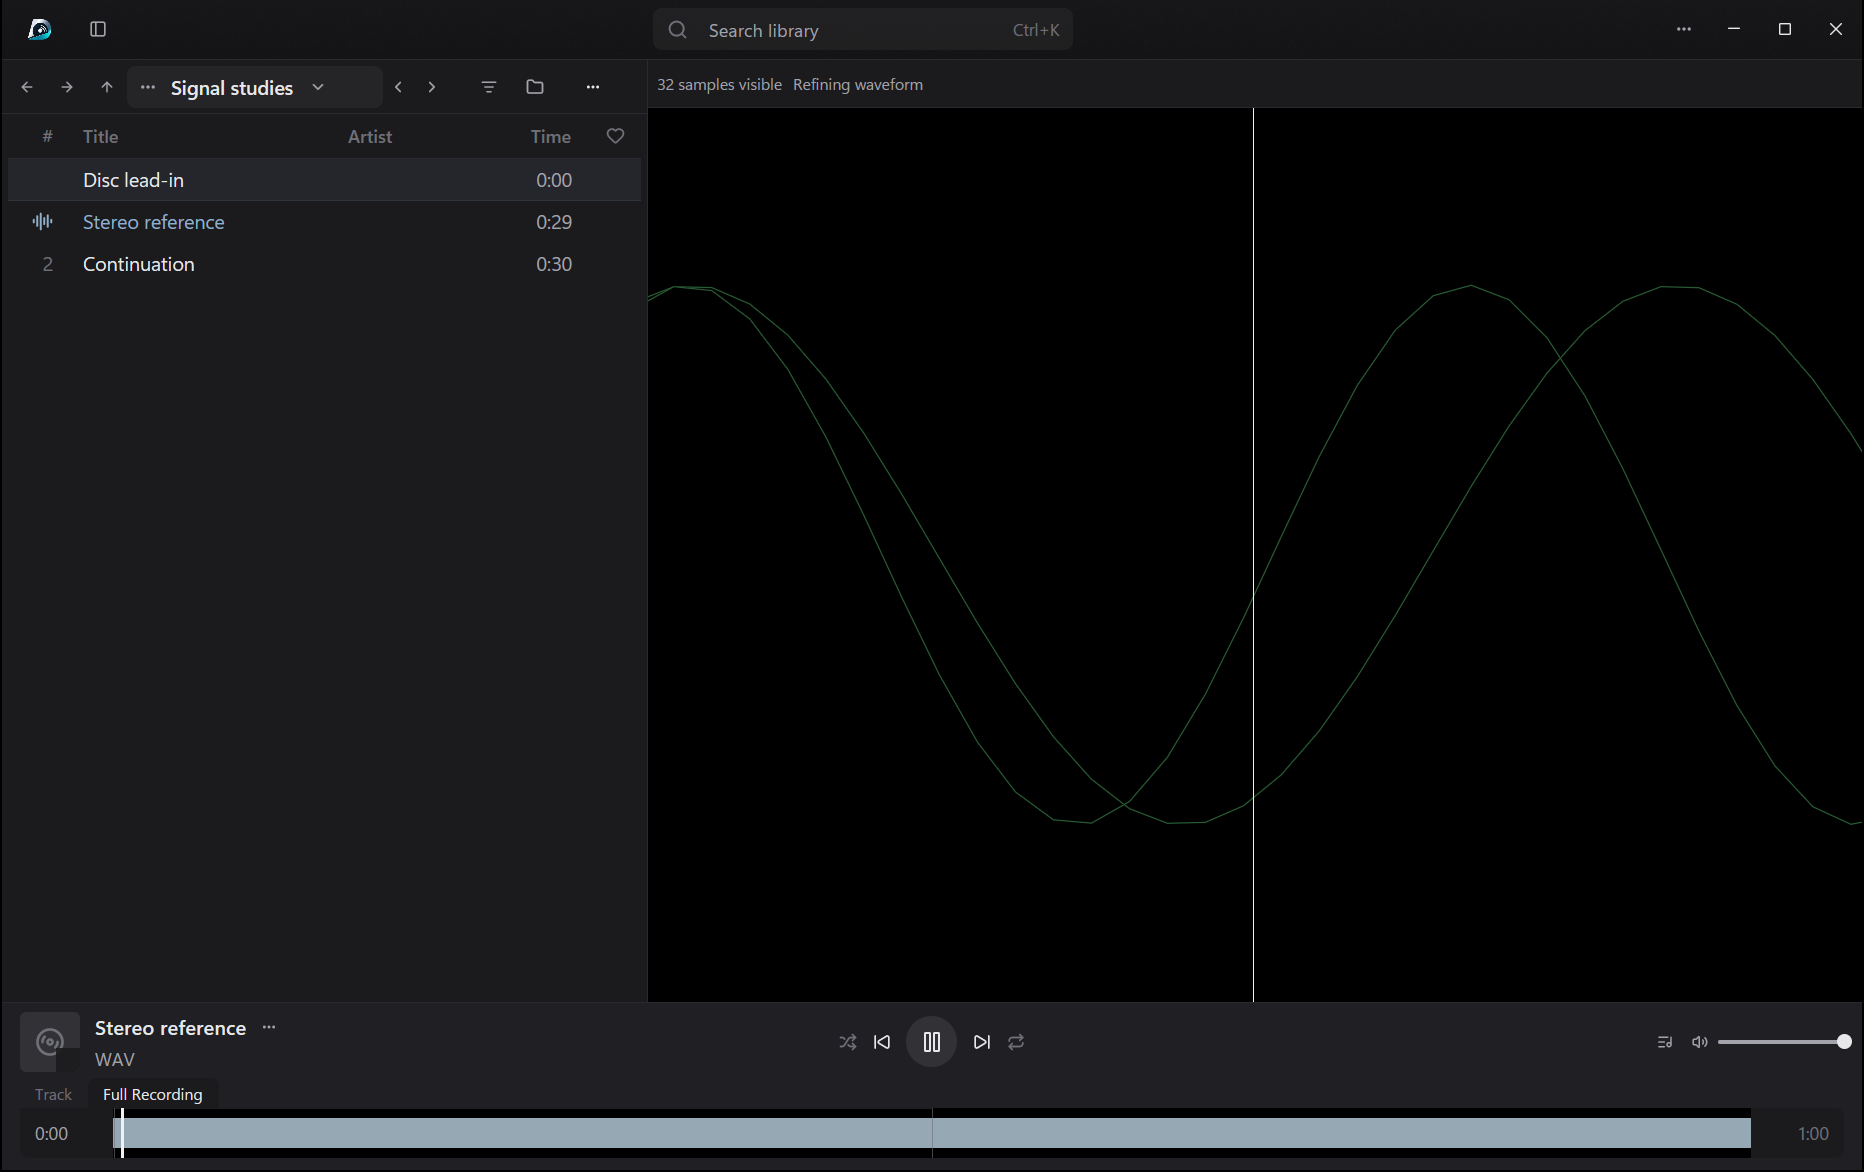
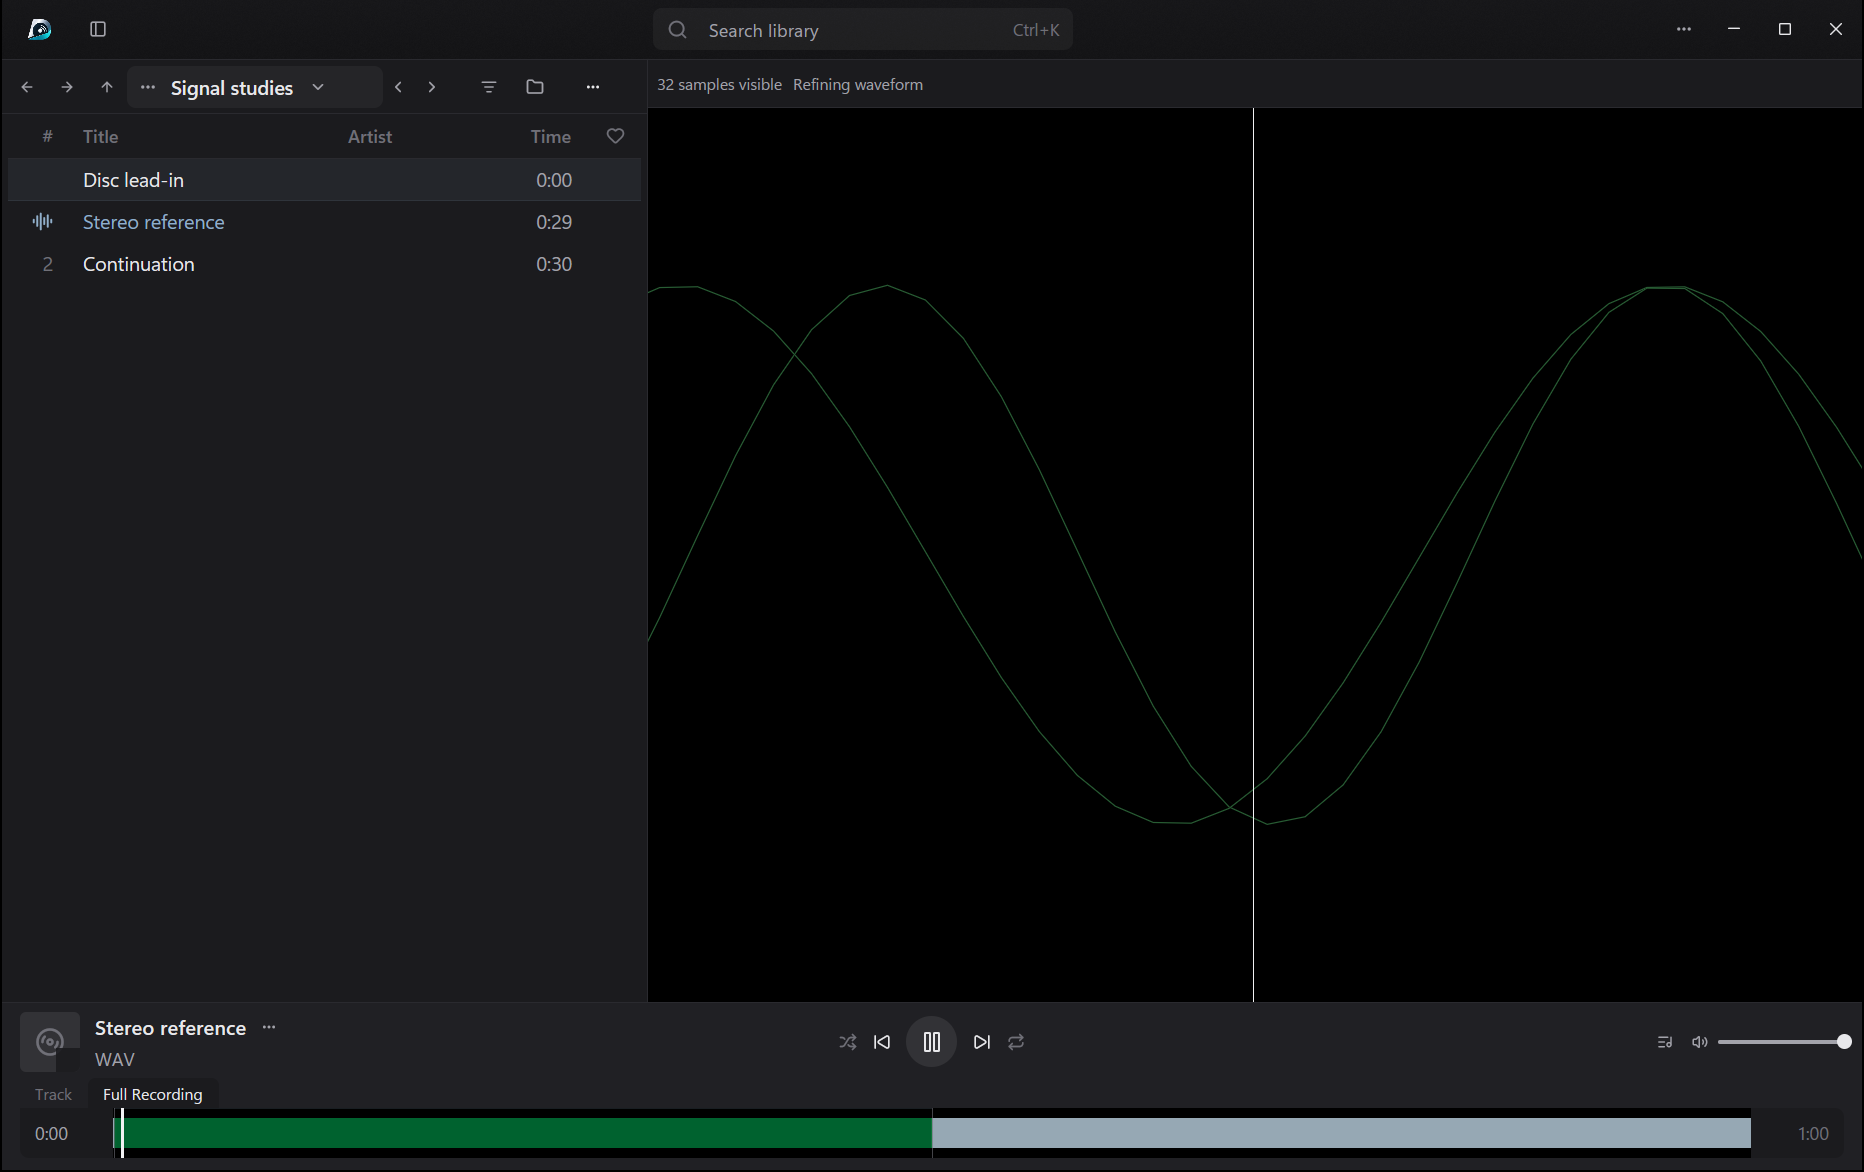
test(waveform): qualify inline inspection and native ruler alignment

diff --git a/tools/qualifyWaveformInspection.py b/tools/qualifyWaveformInspection.py
@@ -9,6 +9,7 @@ import struct
 import json
 import math
 import os
+import shutil
 from pathlib import Path
 import subprocess
 import sys
@@ -16,33 +17,42 @@ import time
 import wave
 from array import array
 
+from PIL import Image, ImageChops
+
 from privateDesktop import run
 from qualifySpectrum import find_window, screenshot
 from qualifyWaveform import settings
 
 
-def measure(exe, folder):
+def measure(exe, folder, band, control_wav):
     folder.mkdir(parents=True, exist_ok=False)
     recordings = folder / "Signal studies"
     recordings.mkdir()
     source = recordings / "Stereo inspection.wav"
-    rate = 48000
-    second = array("h")
-    for i in range(rate):
-        for frequency, phase in [(1847, 0), (2333, 0.4)]:
-            second.append(round(21500 * math.sin(math.tau * i * frequency / rate + phase)))
-    with wave.open(str(source), "wb") as out:
-        out.setparams((2, 2, rate, 0, "NONE", ""))
-        for _ in range(60):
-            out.writeframesraw(second.tobytes())
+    if control_wav:
+        shutil.copyfile(control_wav, source)
+    else:
+        rate = 48000
+        second = array("h")
+        frequencies = {"mid": (1847, 2333), "bass": (83, 127), "high": (7393, 8681)}[band]
+        for i in range(rate):
+            for frequency, phase in zip(frequencies, (0, 0.4)):
+                second.append(round(21500 * math.sin(math.tau * i * frequency / rate + phase)))
+        with wave.open(str(source), "wb") as out:
+            out.setparams((2, 2, rate, 0, "NONE", ""))
+            for _ in range(60):
+                out.writeframesraw(second.tobytes())
     cue = recordings / "Stereo inspection.cue"
+    # At 3.2 seconds the frozen control contains a 6.3 kHz mono tone.
+    # Starting the CUE chapter here exercises coincident channel outlines.
+    index, next_index = ("00:03:08", "00:18:00") if control_wav else ("00:00:03", "00:30:00")
     cue.write_text('FILE "Stereo inspection.wav" WAVE\n'
-                   'TRACK 01 AUDIO\nTITLE "Stereo reference"\nINDEX 01 00:00:03\n'
-                   'TRACK 02 AUDIO\nTITLE "Continuation"\nINDEX 01 00:30:00\n', encoding="ascii")
+                   f'TRACK 01 AUDIO\nTITLE "Stereo reference"\nINDEX 01 {index}\n'
+                   f'TRACK 02 AUDIO\nTITLE "Continuation"\nINDEX 01 {next_index}\n', encoding="ascii")
     profile = settings(cue, 1)
     def restore(node):
         if node["panel_name"] == "disqro.waveform":
-            node["info"]["panel"]["state"] = {"showSamplePoints": True}
+            node["info"]["panel"]["state"] = {"showSamplePoints": True, "showSampleRuler": True}
         for child in node["children"]:
             restore(child)
     restore(profile["layout"]["center"])
@@ -50,7 +60,9 @@ def measure(exe, folder):
     stages = folder / "stages.csv"
     env = dict(os.environ, DISQRO_PROFILE_DIR=str(folder), DISQRO_INSPECTION_JOURNEY=str(folder),
                DISQRO_PRESENTATION_STAGES=str(stages))
-    captures = ("zoom-editor", "sample-points", "sample-inspector", "playback")
+    if control_wav:
+        env["DISQRO_INSPECTION_MIN_FRAME"] = str(round(3.2 * 44100))
+    captures = ("zoom-editor", "sample-points", "sample-ruler", "sample-inspector", "cue-times", "playback", "sample-narrow")
     log = folder / "journey.log"
     with log.open("w", encoding="utf-8") as stream:
         player = subprocess.Popen([exe, "--qualify-silent", cue], env=env, stdout=stream, stderr=stream)
@@ -74,12 +86,28 @@ def measure(exe, folder):
                                 continue
                             hit = hits[-1]
                             frame, bits = int(hit["value"]), int(hit["detail"])
+                            if control_wav:
+                                assert 3 * 44100 <= frame < 4 * 44100, "Expected the control's treble section"
                             measured = struct.unpack(">ff", bits.to_bytes(8, "big"))
-                            start = 2 * (frame % rate)
-                            assert measured == tuple(v / 32768 for v in second[start:start + 2])
+                            with wave.open(str(source), "rb") as reference:
+                                reference.setpos(frame)
+                                stereo = struct.unpack("<hh", reference.readframes(1))
+                            assert measured == tuple(v / 32768 for v in stereo)
 
                         time.sleep(0.2)
                         screenshot(find_window(player.pid), path)
+                        if name in ("sample-inspector", "cue-times"):
+                            baseline = "sample-points" if name == "sample-inspector" else "sample-inspector"
+                            with Image.open(folder / (baseline + ".png")) as before, Image.open(path) as after:
+                                diff = ImageChops.difference(before, after).convert("L")
+                                # The fixture's header is above the waveform. Holding Shift
+                                # changes measurements with the same sample still selected.
+                                header = diff.crop((0, 0, diff.width, round(diff.height * 0.09)))
+                                assert sum(header.histogram()[12:]) > 200, f"{name} header did not change"
+                                if name == "cue-times":
+                                    body = diff.crop((diff.width // 2, round(diff.height * 0.11),
+                                                      diff.width, round(diff.height * 0.82)))
+                                    assert body.getbbox() is None, "CUE times changed waveform pixels"
                 time.sleep(0.05)
             raise RuntimeError("Inspection journey did not complete. See " + str(log))
         finally:
@@ -92,9 +120,12 @@ if __name__ == "__main__":
     parser = argparse.ArgumentParser(description=__doc__)
     parser.add_argument("exe", type=lambda p: Path(p).resolve(strict=True))
     parser.add_argument("output", type=lambda p: Path(p).resolve())
+    parser.add_argument("--control-wav", type=lambda p: Path(p).resolve(strict=True), help="Use Waveform Native's 24-second synthetic control WAV")
+    parser.add_argument("--band", choices=("mid", "bass", "high"), default="mid")
     parser.add_argument("--worker", action="store_true", help=argparse.SUPPRESS)
     args = parser.parse_args()
     if args.worker:
-        measure(args.exe, args.output)
+        measure(args.exe, args.output, args.band, args.control_wav)
     else:
-        run([sys.executable, "-B", str(Path(__file__).resolve()), str(args.exe), str(args.output), "--worker"], 90)
+        fixture = ["--control-wav", str(args.control_wav)] if args.control_wav else []
+        run([sys.executable, "-B", str(Path(__file__).resolve()), str(args.exe), str(args.output), "--band", args.band, *fixture, "--worker"], 90)

diff --git a/src/panels/waveformInspectionJourney.rs b/src/panels/waveformInspectionJourney.rs
@@ -79,7 +79,15 @@ impl Journey {
     }
 
     async fn run(self, cx: &mut AsyncWindowContext) -> anyhow::Result<()> {
+        let minimum_frame = std::env::var("DISQRO_INSPECTION_MIN_FRAME")
+            .ok()
+            .map(|v| v.parse::<usize>())
+            .transpose()?
+            .unwrap_or_default();
         self.until(cx, "playing surface", |p, _, cx| {
+            if p.player.read(cx).wave_track()?.frame < minimum_frame {
+                return None;
+            }
             if p.displayed.borrow().is_none() || !p.player.read(cx).status.playing {
                 return None;
             }
@@ -141,7 +149,10 @@ impl Journey {
             Some(())
         })
         .await?;
-        self.capture(cx, "zoom-editor").await?;
+        self.until(cx, "original span while the edit is pending", |p, _, _| {
+            (p.displayed.borrow().as_ref()?.viewport == initial).then_some(())
+        })
+        .await?;
         dispatch(cx, key("enter"))?;
         // Recovering the center from first + half-span can lose an ulp of
         // the wider viewport when the recording starts near its left edge.
@@ -157,7 +168,39 @@ impl Journey {
                 vertex(p)
             })
             .await?;
+        self.edit(cx, "32 samples").await?;
+        self.capture(cx, "zoom-editor").await?;
+        dispatch(cx, key("escape"))?;
+        self.until(cx, "editor dismissed over decoded trace", |p, _, _| {
+            (p.zoom_editor.is_none() && vertex(p).is_some()).then_some(())
+        })
+        .await?;
         self.capture(cx, "sample-points").await?;
+        cx.update(|_, cx| {
+            self.panel.update(cx, |p, cx| {
+                p.settings.show_sample_points = false;
+                p.position.inspecting = Some(initial.frame_at(0.5).floor() + 0.5);
+                cx.notify();
+            })
+        })??;
+        self.until(cx, "ruler without sample points", |p, _, _| {
+            (p.settings.show_sample_ruler
+                && p.displayed.borrow().as_ref()?.viewport.span == 32.
+                && p.displayed.borrow().as_ref()?.viewport.first.fract().abs() == 0.5
+                && vertex(p).is_none())
+            .then_some(())
+        })
+        .await?;
+        self.capture(cx, "sample-ruler").await?;
+        cx.update(|_, cx| {
+            self.panel.update(cx, |p, cx| {
+                p.settings.show_sample_points = true;
+                p.position.inspecting = None;
+                cx.notify();
+            })
+        })??;
+        self.until(cx, "points restored alongside ruler", |p, _, _| vertex(p))
+            .await?;
         dispatch(
             cx,
             PlatformInput::MouseMove(MouseMoveEvent {
@@ -166,6 +209,18 @@ impl Journey {
             }),
         )?;
         self.capture(cx, "sample-inspector").await?;
+        let modifier = |shift| {
+            PlatformInput::ModifiersChanged(ModifiersChangedEvent {
+                modifiers: Modifiers {
+                    shift,
+                    ..Default::default()
+                },
+                ..Default::default()
+            })
+        };
+        dispatch(cx, modifier(true))?;
+        self.capture(cx, "cue-times").await?;
+        dispatch(cx, modifier(false))?;
         cx.update(|_, cx| {
             self.panel.update(cx, |p, cx| {
                 assert!(same_center(p.position.viewport));
@@ -223,7 +278,10 @@ impl Journey {
             .until(cx, "registered surface before resize", |p, w, _| {
                 let width = p.displayed.borrow().as_ref()?.layout.bounds.size.width;
                 let old = w.viewport_size();
-                w.resize(size(old.width - px(100.), old.height - px(60.)));
+                w.resize(size(
+                    (old.width - px(520.)).max(px(600.)),
+                    old.height - px(60.),
+                ));
                 Some(width)
             })
             .await?;
@@ -258,6 +316,17 @@ impl Journey {
             vertex(p)
         })
         .await?;
+        let narrow = self
+            .until(cx, "resized sample", |p, _, _| vertex(p))
+            .await?;
+        dispatch(
+            cx,
+            PlatformInput::MouseMove(MouseMoveEvent {
+                position: narrow,
+                ..Default::default()
+            }),
+        )?;
+        self.capture(cx, "sample-narrow").await?;
         eprintln!("inspection-complete");
         Ok(())
     }

diff --git a/docs/precision-waveform-inspection.md b/docs/precision-waveform-inspection.md
@@ -12,7 +12,11 @@ Click the visible-span readout in a Waveform panel, or focus it with Tab and pre
 
 The wheel and inline editor share the existing 32-frame minimum and 120-second maximum. Density inputs use the panel's registered device-pixel width. Each panel owns its zoom.
 
-Right-click a waveform and select **Show Sample Points**. Each panel saves its own preference, initially off. The dots appear on resident stereo vertices while stationary at a spacing of at least eight physical pixels. Playback and scrubbing suppress them. At a vertex, the tooltip shows the physical source frame, sample rate, source time, and both unscaled decoder values. CUE chapters also show track and program time. Frame divided by rate gives the exact timestamp in seconds. The source-time decimal is rounded to twelve places.
+Right-click a waveform and enable **Show Sample Points** or **Show Sample Ruler**. Each panel saves the two preferences independently. Both start disabled. Overlays appear while stationary with decoded PCM resident and at least eight physical pixels between adjacent frames. Playback and audible scrubbing hide them.
+
+Hover over either channel's dot to inspect the stereo frame. A dashed guide marks its position. The warm ring identifies L and the cool ring identifies R. The rings nest when the vertices coincide. The header shows the absolute zero-based source frame and raw L/R amplitudes in fixed-width fields. Wider panels also show source time and sample rate. Hold **Shift** over a sample in a CUE recording to read track and program time. Release Shift to return to the amplitudes. Frame divided by rate gives the exact source timestamp in seconds. The decimal is rounded to twelve places.
+
+The ruler counts visible sample positions from **1**. Labels stay centered beneath their ticks. As space narrows, the ruler labels fewer ticks and leaves an edge tick unlabeled when its number would cross the panel boundary. A missing PCM block leaves a gap in the ruler at its true position.
 
 ## Qualification
 
@@ -23,6 +27,10 @@ cargo build --locked --features qualification
 python -B tools/qualifyWaveformInspection.py target/debug/disqro.exe <new-output-directory>
 ```
 
[2 lines of base64/hex data omitted]
 
-Native captures at 144 DPI show the [inline editor](evidence/precision-inspection/zoom-editor.png), [paused sample points](evidence/precision-inspection/sample-points.png), [CUE sample measurement](evidence/precision-inspection/sample-inspector.png), and [32-frame playback](evidence/precision-inspection/playback.png). Physical display cadence and cross-monitor DPI transfers remain outside this qualification.
+The earlier zoom-editor image was captured while the text `32 samples` was pending. The recorded viewport still spanned 384,000 frames at 48 kHz. The green block was the eight-second envelope of the stationary-amplitude fixture at the source boundary. The journey now checks the uncommitted viewport and captures the editor after reopening it over resident PCM at 32 frames.
+
+Native captures at 144 DPI include the [zoom editor](evidence/precision-inspection/zoom-editor.png), [paused markers](evidence/precision-inspection/sample-points.png), [one-based ruler at a half-frame origin](evidence/precision-inspection/sample-ruler.png), [inline measurements](evidence/precision-inspection/sample-inspector.png), [CUE times](evidence/precision-inspection/cue-times.png), [narrow header](evidence/precision-inspection/sample-narrow.png), and [32-frame playback](evidence/precision-inspection/playback.png).
+
+For additional fixtures, pass `--band bass` or `--control-wav <control.wav>` to the same command and use a new output directory. The [bass capture](evidence/precision-inspection/sample-bass.png) uses 83 and 127 Hz stereo tones. The [synthetic control capture](evidence/precision-inspection/sample-control.png) uses the 6.3 kHz mono section of Waveform Native’s frozen 44.1 kHz control. Each journey compares the displayed stereo measurement against the WAV at its absolute frame. Physical display cadence and cross-monitor DPI transfers remain outside this qualification.
